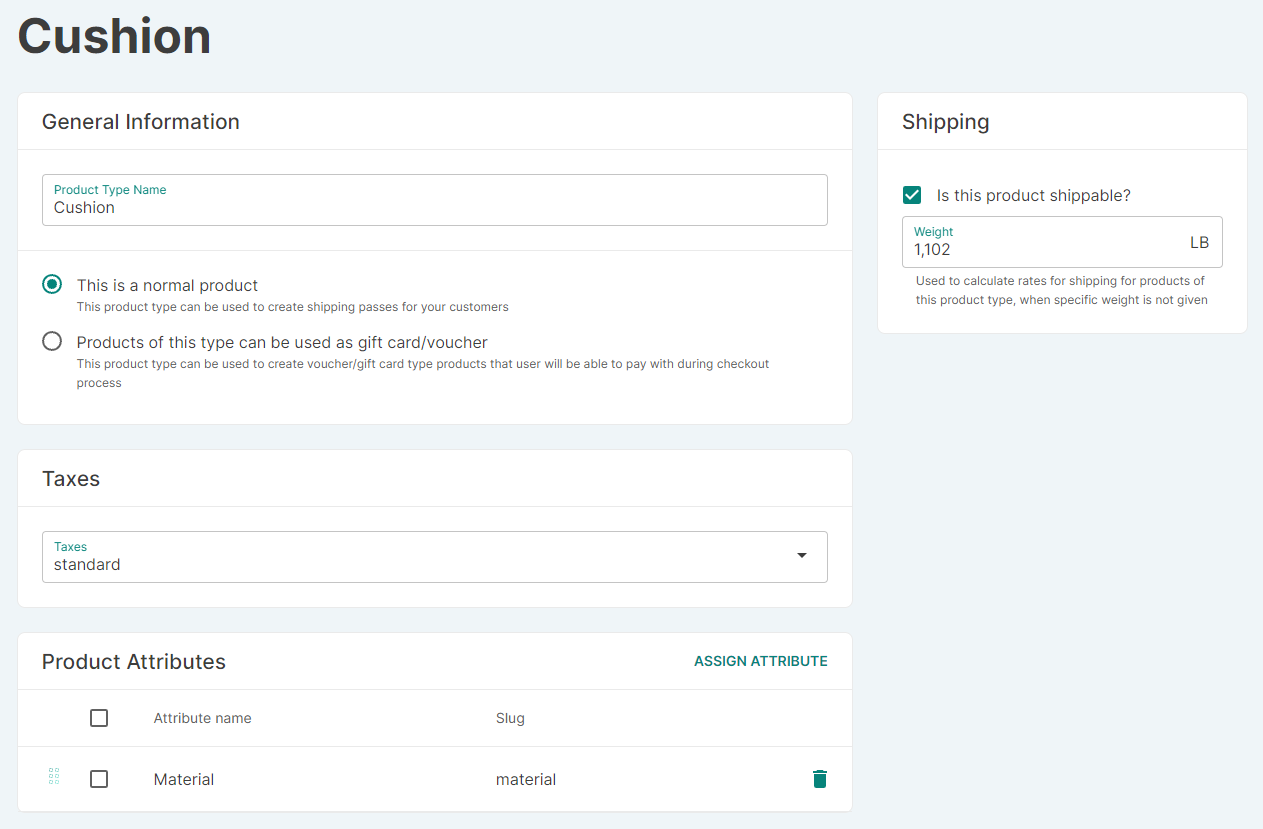
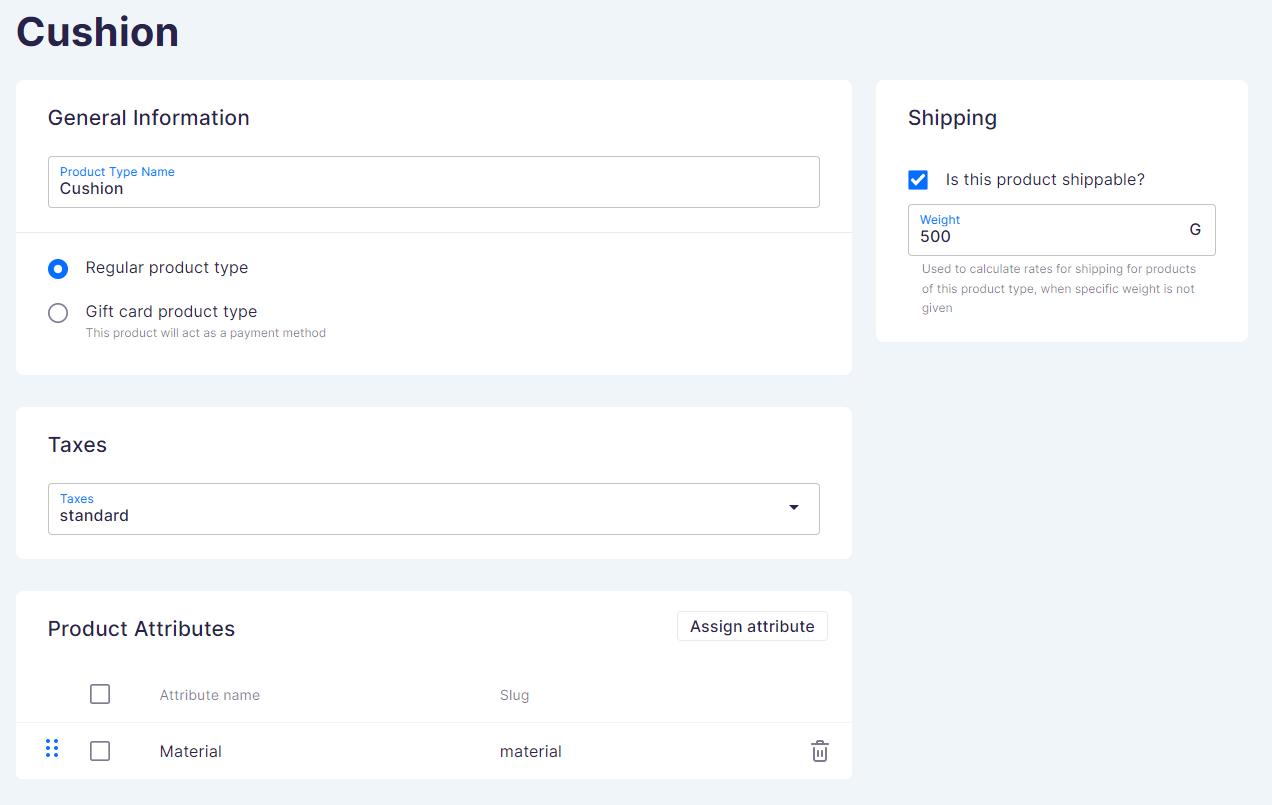
Update gift card and customer sections, new screenshots

diff --git a/docs/dashboard/catalog/gift-cards.md b/docs/dashboard/catalog/gift-cards.md
@@ -13,7 +13,11 @@ Gift cards are timeless and universal gifts. They are suitable for customers, em
 
 ## How to
 ### How to create gift cards?
-Once you have created a product type that can be used as a gift card or voucher, you can issue a gift card. Go to the Gift Card page of the Catalog section. 
+Go to the Gift Card page of the Catalog section.
+
+:::note
+If you would like a gift card to act as a payment method, first you need to create a gift card [product type](dashboard/configuration/products.md).
+:::
 
 ![Gift cards](../screenshots/catalog-giftcards-main.png)
 
@@ -64,7 +68,11 @@ Select a single or multiple previously created gift cards from the gift cards li
 ![Gift cards](../screenshots/catalog-giftcards-deactivate.png)
 
 ### How to set an automatic expiration for gift cards
-Click the three dots button on the top right corner of the page, near the Issue Card button. Click *Settings* and then you can set gift cards to expire after a certain time after their purchase. Remember that in some countries, gift cards expiry is prohibited by law.
+Click the three dots button on the top right corner of the page, near the Issue Card button. Click *Settings* and then you can set gift cards to expire after a certain time after their purchase.  Please bear in mind that once you've set an automatic expiration for gift cards, it will affect only the newly created gift cards after applying that setting.
+
+:::note
+Remember that in some countries, gift cards expiry is prohibited by law.
+:::
 
 ![Gift cards](../screenshots/catalog-giftcards-expiration.png)
 

diff --git a/docs/dashboard/customers.md b/docs/dashboard/customers.md
@@ -63,6 +63,11 @@ In the General Information card, there is a checkbox next to the text _User&nbsp
 
 If you have implemented a backend protocol that requires users to confirm account activation from an e-mail, which is not a default feature, this may also be useful if a user has issues with replying to the e-mail and asks for a manual activation.
 
+### How to issue a gift card
+Once the customer has been created in the dashboard, users can issue a gift card. Click the *Issue new card* button of the Gift Cards section in the Customer Overview card. Then fill in all the information required for a specific gift card and click the *Issue* button. You can issue multiple gift cards to the customer.
+
+![Customer gift cards](screenshots/customer-giftcards.png)
+
 ### How to remove a customer
 
 Select the specific customer record from the main list. Click _Delete_ in the footer then confirm the action.

diff --git a/docs/dashboard/configuration/products.md b/docs/dashboard/configuration/products.md
@@ -32,7 +32,7 @@ This is very important, as it means you are legally charging the correct amount 
 
 1. Click _Create&nbsp;Product&nbsp;Type_ and fill out the General Information, Taxes, and Shipping cards.
 
-2. Choose if the product type can be used to create shipping passes for your customers or can be used to create voucher/gift card type products that user will be able to pay with during checkout process.
+2. Choose if the product type can be used to create shipping passes for your customers or can be used to create gift card type products that user will be able to pay with during checkout process.
 
 3. Click _Save_. An additional _Product Attributes_ card will appear. Assign previously created [attributes](dashboard/configuration/attributes.md) to your product type.
 
